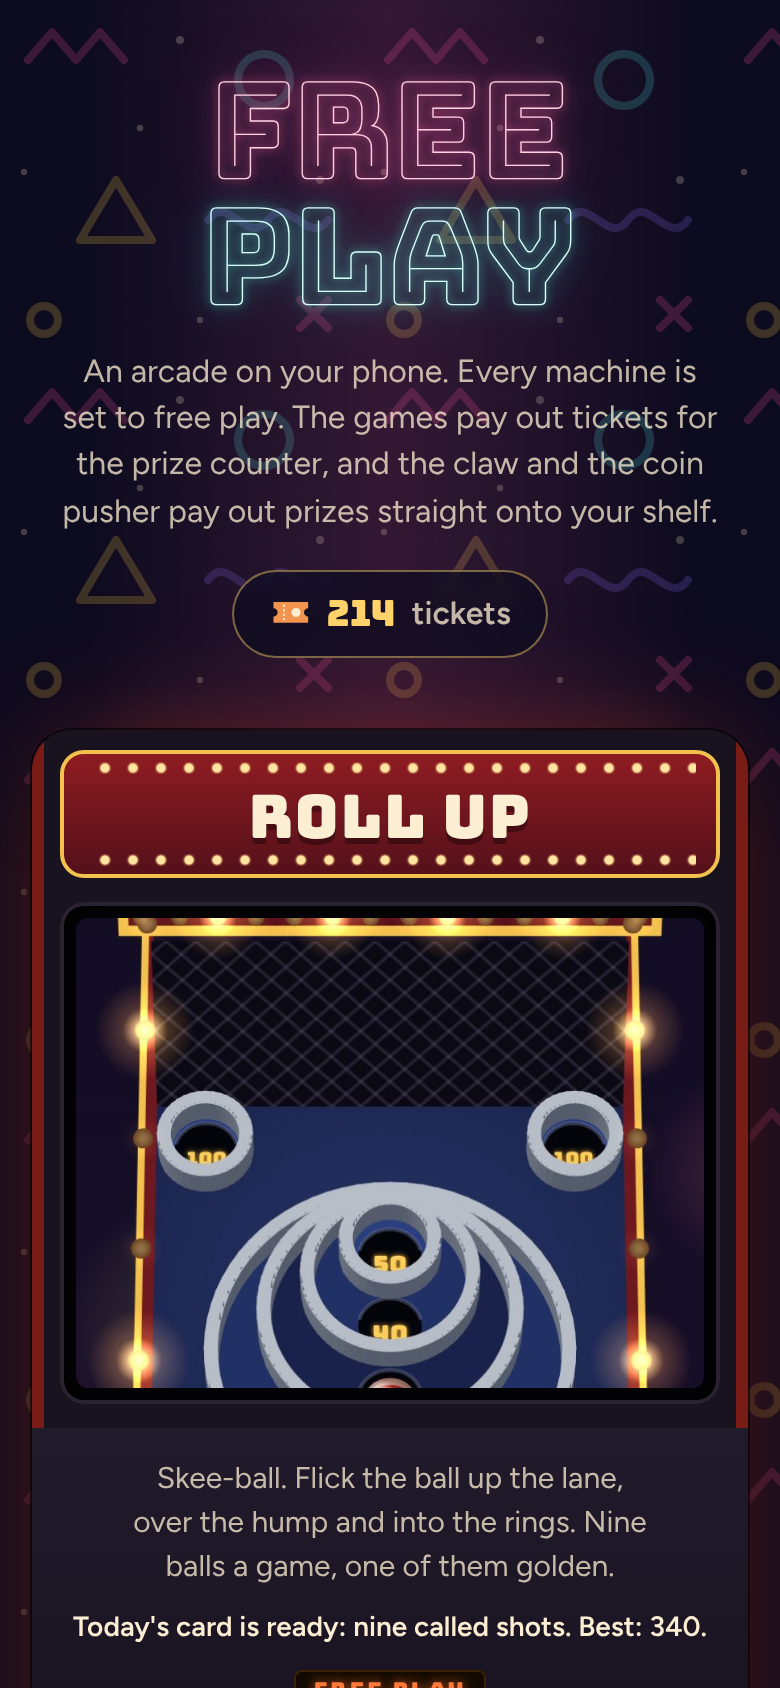
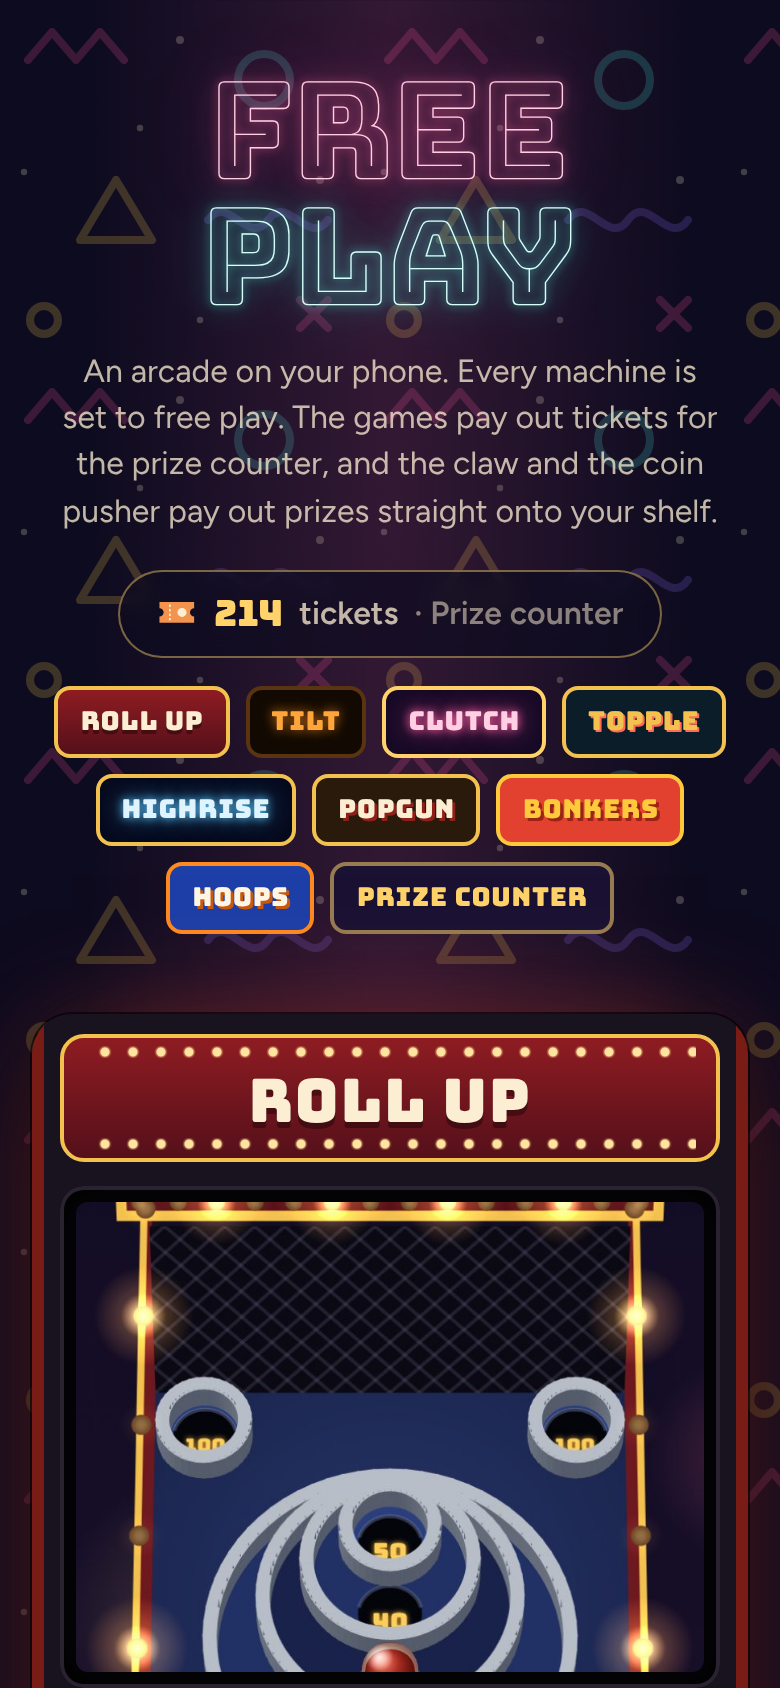
A row of the machines under the pocket goes straight to each cabinet
Mark said yes to 'A row of machine buttons at the top of the floor'. On
a phone the floor is about six and a half screens tall, and the first
showed the sign, the pocket and half of Roll Up, so a first-time
visitor saw one machine and had to scroll to find there were eight,
with Hoops 4,500 px down and the counter 5,100. Under the pocket is now
a row of nine small buttons, one for each machine in its sign's colours
and one for the prize counter, all on the first screen at 390 x 844 (in
three rows; one row on a computer). A tap glides to that cabinet, just
clear of the top of the screen and a phone's notch (straight there when
the phone is set to cut down motion), and the keyboard goes with it;
the address is left as it was, so the phone's Back still leaves the
floor. Without the script they are plain links to the same places. The
big cabinets are as they were. The pocket also shows what it opens, as
Tilt's title card does: '214 tickets · Prize counter', where before a
screen reader alone heard it. Each button is 44 px tall to tap, with its
sign 36 px tall in the middle. The floor's test checks the row's order,
that it fits the first screen, and that a tap on Hoops, Topple and the
counter brings each into view with the address unchanged; it fails
without this change. The README says so, with its floor picture redrawn
and described, and sw.js's FILES follows the change.

Claude-Session: https://claude.ai/code/session_01RkvUFhzoaPZyofz3pSrJ5i

diff --git a/index.html b/index.html
@@ -26,11 +26,22 @@
   <header class="door">
     <h1 class="sign" aria-label="Free Play"><span class="free">Free</span> <span class="play">Play</span></h1>
     <p class="lede">An arcade on your phone. Every machine is set to free play. The games pay out tickets for the prize counter, and the claw and the coin pusher pay out prizes straight onto your shelf.</p>
-    <button type="button" class="purse" id="purse"><svg class="fp-tix" viewBox="0 0 24 16" aria-hidden="true"><path d="M2 2h20v3.6a2.4 2.4 0 0 0 0 4.8V14H2v-3.6a2.4 2.4 0 0 0 0-4.8z" fill="#f2944e"/><path d="M8 3.5v9" stroke="#fbeed2" stroke-width="1" stroke-dasharray="1.4 1.2"/><circle cx="15" cy="8" r="2.6" fill="#fbeed2"/></svg><b id="tix"></b> <span id="tixWord">tickets</span><span class="fp-sr"> · Prize counter</span></button>
+    <button type="button" class="purse" id="purse"><svg class="fp-tix" viewBox="0 0 24 16" aria-hidden="true"><path d="M2 2h20v3.6a2.4 2.4 0 0 0 0 4.8V14H2v-3.6a2.4 2.4 0 0 0 0-4.8z" fill="#f2944e"/><path d="M8 3.5v9" stroke="#fbeed2" stroke-width="1" stroke-dasharray="1.4 1.2"/><circle cx="15" cy="8" r="2.6" fill="#fbeed2"/></svg><b id="tix"></b> <span id="tixWord">tickets</span><span class="to"> · Prize counter</span></button>
+    <nav class="aisle" aria-label="The machines">
+      <a class="hop roll-up" href="#roll-up"><span>Roll Up</span></a>
+      <a class="hop tilt" href="#tilt"><span>Tilt</span></a>
+      <a class="hop clutch" href="#clutch"><span>Clutch</span></a>
+      <a class="hop topple" href="#topple"><span>Topple</span></a>
+      <a class="hop highrise" href="#highrise"><span>Highrise</span></a>
+      <a class="hop popgun" href="#popgun"><span>Popgun</span></a>
+      <a class="hop bonkers" href="#bonkers"><span>Bonkers</span></a>
+      <a class="hop hoops" href="#hoops"><span>Hoops</span></a>
+      <a class="hop counter" href="#prize-counter"><span>Prize counter</span></a>
+    </nav>
   </header>
 
   <main class="floor">
-    <a class="cab roll-up" href="roll-up/" aria-labelledby="rollUpName rollUpStat" aria-describedby="rollUpWhat">
+    <a class="cab roll-up" id="roll-up" href="roll-up/" aria-labelledby="rollUpName rollUpStat" aria-describedby="rollUpWhat">
       <span class="marquee"><span id="rollUpName">Roll Up</span></span>
       <span class="screen"><img src="floor/roll-up.jpg" width="600" height="450" alt="Roll Up's skee-ball board: chrome rings on blue with lit 20, 30, 40 and 50 holes, 100 cups in the top corners, under a marquee of bulbs"></span>
       <span class="panel">
@@ -40,7 +51,7 @@
         <span class="go">Play</span>
       </span>
     </a>
-    <a class="cab tilt" href="tilt/" aria-labelledby="tiltName tiltStat" aria-describedby="tiltWhat">
+    <a class="cab tilt" id="tilt" href="tilt/" aria-labelledby="tiltName tiltStat" aria-describedby="tiltWhat">
       <span class="marquee"><span id="tiltName">Tilt</span></span>
       <span class="screen"><img src="floor/tilt.jpg" width="600" height="450" alt="A Tilt pinball table: top lanes A, B and C over the pop bumpers on a starry blue playfield"></span>
       <span class="panel">
@@ -50,7 +61,7 @@
         <span class="go">Play</span>
       </span>
     </a>
-    <a class="cab clutch" href="clutch/" aria-labelledby="clutchName clutchStat" aria-describedby="clutchWhat">
+    <a class="cab clutch" id="clutch" href="clutch/" aria-labelledby="clutchName clutchStat" aria-describedby="clutchWhat">
       <span class="marquee"><span id="clutchName">Clutch</span></span>
       <span class="screen"><img src="floor/clutch.jpg" width="600" height="450" alt="Clutch's glass box: the claw lifting a plush off a heap of bears, frogs, chicks, ghosts, penguins and aliens"></span>
       <span class="panel">
@@ -60,7 +71,7 @@
         <span class="go">Play</span>
       </span>
     </a>
-    <a class="cab topple" href="topple/" aria-labelledby="toppleName toppleStat" aria-describedby="toppleWhat">
+    <a class="cab topple" id="topple" href="topple/" aria-labelledby="toppleName toppleStat" aria-describedby="toppleWhat">
       <span class="marquee"><span id="toppleName">Topple</span></span>
       <span class="screen"><img src="floor/topple.jpg" width="600" height="450" alt="Topple's deck: a heap of silver coins, two gold ones and a prize on a red card, pushed towards the front edge by a chrome pusher"></span>
       <span class="panel">
@@ -70,7 +81,7 @@
         <span class="go">Play</span>
       </span>
     </a>
-    <a class="cab highrise" href="highrise/" aria-labelledby="highriseName highriseStat" aria-describedby="highriseWhat">
+    <a class="cab highrise" id="highrise" href="highrise/" aria-labelledby="highriseName highriseStat" aria-describedby="highriseWhat">
       <span class="marquee"><span id="highriseName">Highrise</span></span>
       <span class="screen"><img src="floor/highrise.jpg" width="600" height="450" alt="Highrise's tower against a night skyline, its lit windows stacked eight floors up, a row sliding along the next floor and a window falling off the side"></span>
       <span class="panel">
@@ -80,7 +91,7 @@
         <span class="go">Play</span>
       </span>
     </a>
-    <a class="cab popgun" href="popgun/" aria-labelledby="popgunName popgunStat" aria-describedby="popgunWhat">
+    <a class="cab popgun" id="popgun" href="popgun/" aria-labelledby="popgunName popgunStat" aria-describedby="popgunWhat">
       <span class="marquee"><span id="popgunName">Popgun</span></span>
       <span class="screen"><img src="floor/popgun.jpg" width="600" height="450" alt="Popgun's booth: tin rabbits and ducks running along brass rails under a red and cream awning, a star going down, and a cork on its way"></span>
       <span class="panel">
@@ -90,7 +101,7 @@
         <span class="go">Play</span>
       </span>
     </a>
-    <a class="cab bonkers" href="bonkers/" aria-labelledby="bonkersName bonkersStat" aria-describedby="bonkersWhat">
+    <a class="cab bonkers" id="bonkers" href="bonkers/" aria-labelledby="bonkersName bonkersStat" aria-describedby="bonkersWhat">
       <span class="marquee"><span id="bonkersName">Bonkers</span></span>
       <span class="screen"><img src="floor/bonkers.jpg" width="600" height="450" alt="Bonkers: a mole up out of its hole on a sunny lawn, and under it the ground in cross-section, with moles running through their tunnels and one asleep in its burrow"></span>
       <span class="panel">
@@ -100,7 +111,7 @@
         <span class="go">Play</span>
       </span>
     </a>
-    <a class="cab hoops" href="hoops/" aria-labelledby="hoopsName hoopsStat" aria-describedby="hoopsWhat">
+    <a class="cab hoops" id="hoops" href="hoops/" aria-labelledby="hoopsName hoopsStat" aria-describedby="hoopsWhat">
       <span class="marquee"><span id="hoopsName">Hoops</span></span>
       <span class="screen"><img src="floor/hoops.jpg" width="600" height="450" alt="Hoops: a ball dropping through the net of a basketball hoop with the rim on fire, and SWISH! and +3 rising off the backboard"></span>
       <span class="panel">
@@ -112,7 +123,7 @@
     </a>
   </main>
 
-  <section class="booth" aria-labelledby="boothH">
+  <section class="booth" id="prize-counter" tabindex="-1" aria-labelledby="boothH">
     <div class="booth-in">
       <h2 id="boothH">Prize counter</h2>
       <p class="booth-what">Every game pays into the same pocketful of tickets. Trade them for something to put on your shelf, next to anything the machines have given you.</p>

diff --git a/css/floor.css b/css/floor.css
@@ -52,6 +52,34 @@ button { font: inherit; color: inherit; cursor: pointer; }
   backdrop-filter: blur(6px); -webkit-backdrop-filter: blur(6px);
 }
 .purse b { min-width: 1ch; font: 400 18px var(--disp); color: var(--gold); } /* sent empty: js/floor.js fills it */
+.purse .to { color: var(--ink3); }
+
+/* Under the pocket, a row of the machines, each in its sign's colours, and the prize counter: a tap goes straight to
+   its cabinet (js/floor.js), so the first screen on a phone shows all eight, and Hoops at the far end is one tap away. */
+/* (Each is 44 px tall to tap, with its sign 36 px tall in the middle of that.) */
+.aisle { display: flex; flex-wrap: wrap; justify-content: center; gap: 0 8px; margin: 10px auto 0; }
+.hop {
+  --hop-bg: #19131f; --hop-edge: #f2c14e; --hop-ink: var(--ink); --hop-glow: none;
+  display: flex; min-height: 44px; padding: 4px 0; border-radius: 10px; text-decoration: none; -webkit-tap-highlight-color: transparent;
+}
+.hop span {
+  display: flex; align-items: center; padding: 0 11px; border-radius: 8px;
+  background: var(--hop-bg); border: 2px solid var(--hop-edge); color: var(--hop-ink); text-shadow: var(--hop-glow);
+  font: 400 13px/1 var(--disp); letter-spacing: .03em;
+}
+.hop:active span { transform: translateY(1px); filter: brightness(1.15); }
+.hop.roll-up { --hop-bg: linear-gradient(#8e1c22, #55101a); --hop-glow: 0 2px 0 rgba(0, 0, 0, .35); }
+.hop.tilt { --hop-bg: #120a02; --hop-edge: #5a3410; --hop-ink: #ffa53a; --hop-glow: 0 0 6px rgba(255, 140, 30, .8); }
+.hop.clutch { --hop-bg: #170a26; --hop-edge: #ffd36a; --hop-ink: #ffd0e3; --hop-glow: 0 0 5px #ff5fa2, 0 0 12px rgba(255, 95, 162, .7); }
+.hop.topple { --hop-bg: #0b1d29; --hop-ink: #f2c14e; --hop-glow: 1px 1px 0 #ff6b57; }
+.hop.highrise { --hop-bg: #060a1e; --hop-ink: #dff4ff; --hop-glow: 0 0 5px #5cc8ff, 0 0 12px rgba(92, 200, 255, .6); }
+.hop.popgun { --hop-bg: #2a1a0c; --hop-ink: #fbeed2; --hop-glow: 1.5px 1.5px 0 #8f1f19; }
+.hop.bonkers { --hop-bg: #e2412f; --hop-edge: #ffc93c; --hop-ink: #ffc93c; --hop-glow: 1.5px 1.5px 0 #9a2216; }
+.hop.hoops { --hop-bg: #1d3fa8; --hop-edge: #ff8a1f; --hop-ink: #fff6e6; --hop-glow: 1.5px 1.5px 0 #c75a10; }
+.hop.counter { --hop-bg: #1a1233; --hop-edge: rgba(255, 211, 106, .55); --hop-ink: var(--gold); }
+/* where a tap on one of them lands: just clear of the top of the screen (and of a phone's notch) */
+.cab, .booth { scroll-margin-top: calc(14px + env(safe-area-inset-top, 0px)); }
+.booth:focus { outline: none; }
 
 /* ---------- the machines ---------- */
 .floor {

diff --git a/js/floor.js b/js/floor.js
@@ -120,6 +120,20 @@ function backFrom() {
 }
 backFrom();
 
+// The row of machines under the pocket: a tap on one goes to its cabinet (or the prize counter at the back), gliding
+// there unless the phone is set to cut down motion, and leaves the address as it was, so the phone's Back still leaves
+// the floor. The keyboard goes with it, so Tab carries on from there. (Without this script they're plain links to the
+// same places.)
+for (const hop of document.querySelectorAll('.aisle a')) {
+  hop.addEventListener('click', e => {
+    const to = document.getElementById(hop.hash.slice(1));
+    if (!to) return;
+    e.preventDefault();
+    to.scrollIntoView({ behavior: matchMedia('(prefers-reduced-motion: reduce)').matches ? 'auto' : 'smooth', block: 'start' });
+    to.focus({ preventScroll: true });
+  });
+}
+
 if ('serviceWorker' in navigator && !('single' in document.documentElement.dataset) && location.protocol !== 'file:') {
   navigator.serviceWorker.register('sw.js').catch(() => {});
 }

diff --git a/sw.js b/sw.js
@@ -9,7 +9,7 @@
 // match (it says what to), which changes this file, so every copy is made whole again at once. Bump CACHE's number
 // as well when the list itself changes.
 const CACHE = 'free-play-v9';
-const FILES = '4ad715d7'; // test/arcade.test.mjs checks this
+const FILES = '409ae18e'; // test/arcade.test.mjs checks this
 const SHELL = [
   './', 'index.html', 'icon.svg', 'manifest.webmanifest', 'icon-180.png', 'icon-192.png',
   // the page for an address that is not there

diff --git a/README.md b/README.md
@@ -5,7 +5,7 @@
 **An arcade on your phone.** Walk onto the floor and pick a machine: Roll Up, a skee-ball lane; Tilt, three pinball tables; Clutch, a claw machine full of plush; Topple, a coin pusher; Highrise, a stacker; Popgun, a shooting gallery; Bonkers, a whack-a-mole; or Hoops, a basketball machine. Every machine is set to free play. The games pay out tickets into the same pocket, for the same prize counter at the back, and the claw and the coin pusher pay out prizes, straight onto the same shelf. There's room on the floor for more machines.
 
 <p align="center">
-  <img src="docs/phone-floor.png" alt="The Free Play floor: FREE PLAY in pink and teal neon tubes over arcade carpet, 214 tickets in your pocket, and the Roll Up cabinet with its red and gold marquee and its screen showing the ring board" width="250">
+  <img src="docs/phone-floor.png" alt="The Free Play floor: FREE PLAY in pink and teal neon tubes over arcade carpet, 214 tickets in your pocket beside the words Prize counter, a row of buttons for the eight machines and the prize counter, each in its sign's colours, and the Roll Up cabinet with its red and gold marquee and its screen showing the ring board" width="250">
   &nbsp;
   <img src="docs/phone-roll-up.png" alt="Roll Up pushed in on the board as a ball drops into the 50 cup: chrome rings on a blue board with lit numbers 20, 30, 40 and 50, 100 cups in both top corners, and +50 rising over the cup" width="250">
   &nbsp;
@@ -29,7 +29,7 @@
 
 ## How it plays
 
-- **The floor** has a cabinet for each machine, showing what you've done on it: your best, today's card and how many days in a row you've played it, a cup still on the go on Topple, the plush you've won. Tap one to play. Every machine has a way back to the floor.
+- **The floor** has a cabinet for each machine, showing what you've done on it: your best, today's card and how many days in a row you've played it, a cup still on the go on Topple, the plush you've won. Tap one to play. The row of buttons under your pocket goes straight to any machine's cabinet, or to the prize counter at the back. Every machine has a way back to the floor.
 - **Tickets.** Roll Up pays one for every 10 points, and a fair game earns about 25 to 35. Tilt pays one for every 5,000 on Classic and Space, and one for every 2,500 on Haunted House, the hard one, and a fair game earns about 50 to 70. They feed out of a slot at the end. Topple pays one for every two coins pushed over its front edge, about 8 to 18 a cup, Highrise one for every floor built, Popgun one for every 30 points, Bonkers one for every 15, and Hoops one for every 4.
 - **Plush and prizes.** Clutch is the one machine that pays in prizes instead of tickets: whatever its claw drops down the chute goes straight on your shelf. So does a prize pushed off Topple's deck.
 - **The prize counter** is on the floor and in every machine's menus. Trade tickets for anything from a 5-ticket lollipop to a 2,500-ticket enormous unicorn, and it sits on your shelf next to your plush. Tapped the wrong one? For a few seconds after a trade, Undo gives the tickets back.
@@ -156,7 +156,7 @@ A machine is a folder with its own `index.html`. To put one on the floor:
 1. Load `../shared/carry.js` first in its `<head>` and `../shared/arcade.css` before its own styles, and point its icon, manifest and fonts at the arcade's (`../icon.svg`, `../manifest.webmanifest`, `../fonts/`).
 2. Pay tickets with `pay(n)` from `shared/wallet.js`, and show them coming out of the slot with `feed()` and `PAYOUT` from `shared/counter.js`; or, for a machine that pays in prizes the way Clutch does, put them on the shelf with `give(prize)` (and list them in `shared/prizes.js`). Open the prize counter with `openCounter()`. A machine with physics can use matter-js from `shared/matter.min.js`, as Clutch and Topple do.
 3. Keep its own saves under a key starting `free-play.` and its name, link back to the floor (`../`), and register `../sw.js` for offline.
-4. Give it a cabinet in `index.html` (a picture of it in `floor/`, which `tools/screenshots.mjs` draws), add its files to `sw.js`'s list (bump `CACHE`, and set `FILES` to what `npm test` says), and give it a test.
+4. Give it a cabinet in `index.html` (with its folder's name as the cabinet's `id`, a button for it in the row under the pocket, in `css/floor.css` its sign's colours, and a picture of it in `floor/`, which `tools/screenshots.mjs` draws), add its files to `sw.js`'s list (bump `CACHE`, and set `FILES` to what `npm test` says), and give it a test.
 
 ## Running it
 
@@ -174,7 +174,7 @@ To put it online with GitHub Pages: **Settings → Pages → Build and deploymen
 
 ### Files
 
-- `index.html`, `css/floor.css`, `js/floor.js`: the floor, with a cabinet for each machine and the prize counter at the back.
+- `index.html`, `css/floor.css`, `js/floor.js`: the floor, with a row of buttons to each machine, a cabinet for each, and the prize counter at the back.
 - `404.html`: the page for a mistyped address ("That machine isn't on the floor."), with the way to the floor and to each machine. GitHub Pages serves it for any address that isn't there, at any depth, and the offline copy does the same for a page it hasn't kept, so its styles are on the page and its links and fonts start from the site's root (`/hoops/`), the one place a path here isn't relative.
 - `shared/wallet.js`: the one pocket of tickets and shelf of prizes every machine pays into and the counter spends from.
 - `shared/counter.js`, `shared/arcade.css`: the prize counter, the ticket dispenser at the end of a game, and the toast, for every page.
